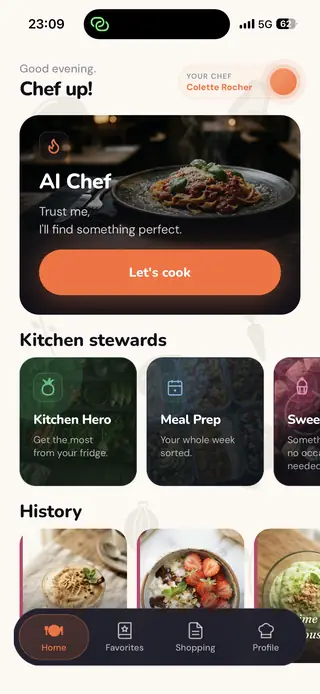
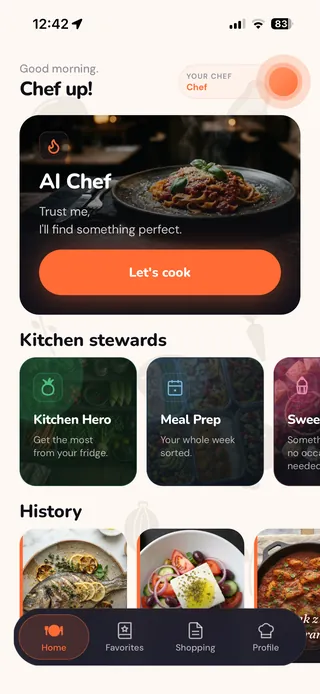
landing v2, paczka 2b (PL+EN): pomocnicy w ukladzie z makiety — Szef na cala szerokosc, pod nim tasma czterech pomocnikow
- sekcja modes -> .crew (kotwica #modes zostaje): karta AI Chefa z Mam smaka i Spontanem, potem Kitchen Hero, Air Fryer,
  Lasuch i Meal Prep (Premium, z linkiem do opowiesci Meal Prep); kazdy z ekranem aplikacji w przycietym oknie
- zdania, nazwy i zrzuty z dotychczasowej sekcji; nowe sa tylko etykiety przy telefonach (slowa z opisow)
  i podpowiedz przesuwania na telefonie
- ekran glowny: nowe zrzuty PO z 04.10 (neutralna nazwa Chefa), PL i EN
- story.css: style kart (na telefonie przesuwana tasma, od 720 px karty poziome, od 1080 px dwie kolumny)
- narzedzie migracji: snackmeup-marketing docs/landing/makieta_v2/buduj_pomocnikow.py

diff --git a/index.html b/index.html
@@ -212,74 +212,37 @@
   <div class="track" aria-hidden="true"><i></i><i></i><i></i><i></i><i></i><i></i><i></i><i></i><i></i><i></i></div>
 </section>
 
-<section class="modes band" id="modes">
-  <div class="wrap">
-    <div class="modes-head rise">
-      <p class="eyebrow">Kuchenni pomocnicy</p>
-      <h2>Na każdą sytuację w kuchni mam osobnego pomocnika.</h2>
-    </div>
-    <div class="mode-grid">
-      <article class="mode mode--chef rise" style="--i:0">
-        <div class="mode-photo"><img class="mode-plate" src="/assets/food/04-384.webp" srcset="/assets/food/04-384.webp 384w, /assets/food/04.webp 768w" sizes="(min-width: 900px) 55vw, 100vw" width="768" height="768" loading="lazy" alt="" aria-hidden="true"></div>
-        <div class="mode-body">
-          <p class="mode-tag"><span class="dot"></span>AI Chef</p>
-          <h3>Zdaj się na mnie, znajdę coś idealnego.</h3>
-          <p class="more">Kiedy nie masz pomysłu ani siły, żeby go szukać. Jedno dotknięcie i dostajesz danie dobrane do Twojego profilu.</p>
-          <div class="chef-tiles">
-            <div class="chef-tile rise" style="--i:0">
-              <span class="ico sm"><svg viewBox="0 0 24 24" fill="none" stroke="currentColor" stroke-width="1.75" stroke-linecap="round" stroke-linejoin="round" aria-hidden="true"><path d="M4 6h16v9H10.5L6.5 18.5V15H4V6Z"/></svg></span>
-              <p class="chef-tile-name">Mam smaka</p>
-              <p class="chef-tile-desc">Gdy wiesz, na co masz ochotę. Wpisujesz albo dyktujesz zachciankę, a ja zamieniam ją w przepis.</p>
-            </div>
-            <div class="chef-tile rise" style="--i:1">
-              <span class="ico sm"><svg viewBox="0 0 24 24" fill="none" stroke="currentColor" stroke-width="1.75" stroke-linecap="round" stroke-linejoin="round" aria-hidden="true"><rect x="4" y="4" width="16" height="16" rx="3.2"/><circle cx="8.6" cy="8.6" r="1.1"/><circle cx="15.4" cy="8.6" r="1.1"/><circle cx="8.6" cy="15.4" r="1.1"/><circle cx="15.4" cy="15.4" r="1.1"/><circle cx="12" cy="12" r="1.1"/></svg></span>
-              <p class="chef-tile-name">Spontan</p>
-              <p class="chef-tile-desc">Gdy masz ochotę na niespodziankę. Losuję kuchnię, budżet i poziom trudności inne niż w Twoim profilu. Alergie i region zakupów zostają bez zmian.</p>
-            </div>
-          </div>
-        </div>
+<section class="crew" id="modes">
+  <div class="crew-head rise">
+    <p class="eyebrow">Kuchenni pomocnicy</p>
+    <h2>Na każdą sytuację w kuchni mam osobnego pomocnika.</h2>
+  </div>
+  <div class="mates">
+      <article class="mate mate--chef" style="--mc: var(--o)">
+        <div class="mate-copy"><p class="who">AI Chef</p><h3>Zdaj się na mnie, znajdę coś idealnego.</h3><p>Kiedy nie masz pomysłu ani siły, żeby go szukać. Jedno dotknięcie i dostajesz danie dobrane do Twojego profilu.</p><ul class="subs"><li><b>Mam smaka</b>Gdy wiesz, na co masz ochotę. Wpisujesz albo dyktujesz zachciankę, a ja zamieniam ją w przepis.</li><li><b>Spontan</b>Gdy masz ochotę na niespodziankę. Losuję kuchnię, budżet i poziom trudności inne niż w Twoim profilu. Alergie i region zakupów zostają bez zmian.</li></ul></div>
+        <div class="win"><div class="dev"><div class="scr"><img src="/assets/screens/01-home-pl-320.webp" srcset="/assets/screens/01-home-pl-320.webp 320w, /assets/screens/01-home-pl-480.webp 480w" sizes="172px" width="360" height="780" loading="lazy" decoding="async" alt="Ekran główny aplikacji: AI Chef i kuchenni pomocnicy"></div></div><ul class="bits" aria-hidden="true"><li class="chip" style="--i:0">Szybka szama</li><li class="chip" style="--i:1">Mam smaka</li><li class="chip" style="--i:2">Spontan</li></ul></div>
       </article>
-      <article class="mode mode--hero rise" style="--i:1">
-        <div class="mode-copy">
-          <p class="mode-tag"><span class="dot"></span>Kitchen Hero</p>
-          <h3>Wyciśnij maksa z lodówki.</h3>
-          <p class="more">Kiedy lodówka jest pełna, a pomysłu brak. Wpisz, podyktuj albo sfotografuj to, co masz, a ułożę z tego przepis. Jeśli czegoś zabraknie, dopiszę najwyżej dwa drobiazgi do kupienia.</p>
-        </div>
-        <div class="mode-preview">
-          <div class="phone"><img src="/assets/screens/04-kitchenhero-pl-320.webp" srcset="/assets/screens/04-kitchenhero-pl-320.webp 320w, /assets/screens/04-kitchenhero-pl-480.webp 480w" sizes="(min-width: 900px) 200px, min(60vw, 220px)" width="320" height="694" loading="lazy" alt="Ekran trybu Kitchen Hero: pole na składniki z przyciskiem aparatu i mikrofonu"></div>
-        </div>
+    <div class="rail">
+      <article class="mate" style="--mc: var(--m-hero)">
+        <div class="mate-copy"><p class="who">Kitchen Hero</p><h3>Wyciśnij maksa z lodówki.</h3><p>Kiedy lodówka jest pełna, a pomysłu brak. Wpisz, podyktuj albo sfotografuj to, co masz, a ułożę z tego przepis. Jeśli czegoś zabraknie, dopiszę najwyżej dwa drobiazgi do kupienia.</p></div>
+        <div class="win"><div class="dev"><div class="scr"><img src="/assets/screens/04-kitchenhero-pl-320.webp" srcset="/assets/screens/04-kitchenhero-pl-320.webp 320w, /assets/screens/04-kitchenhero-pl-480.webp 480w" sizes="172px" width="360" height="780" loading="lazy" decoding="async" alt="Ekran trybu Kitchen Hero: pole na składniki z przyciskiem aparatu i mikrofonu"></div></div><ul class="bits" aria-hidden="true"><li class="chip" style="--i:0">wpisz</li><li class="chip" style="--i:1">podyktuj</li><li class="chip" style="--i:2">sfotografuj</li></ul></div>
       </article>
-      <article class="mode mode--sweet rise" style="--i:2">
-        <div class="mode-copy">
-          <p class="mode-tag"><span class="dot"></span>Łasuch</p>
-          <h3>Coś słodkiego na drugi żołądek.</h3>
-          <p class="more">Kiedy po obiedzie chodzi za Tobą coś słodkiego. Mus czekoladowy, ciasto w kubku albo coś lżejszego z owocami, także z tego, co masz pod ręką.</p>
-        </div>
-        <div class="mode-preview">
-          <div class="phone"><img src="/assets/screens/09-sweettooth-pl-320.webp" srcset="/assets/screens/09-sweettooth-pl-320.webp 320w, /assets/screens/09-sweettooth-pl-480.webp 480w" sizes="(min-width: 900px) 200px, min(60vw, 220px)" width="320" height="694" loading="lazy" alt="Ekran trybu Łasuch: pole na słodką zachciankę i gotowe inspiracje"></div>
-        </div>
+      <article class="mate" style="--mc: var(--m-fryer)">
+        <div class="mate-copy"><p class="who">Air Fryer</p><h3>Chrupiące, prosto z kosza.</h3><p>Kiedy air fryer stoi na blacie, a chcesz z niego wyciągnąć coś więcej niż frytki. Wybierzesz, co robimy: danie główne, dodatek, przekąskę albo deser. Podam temperaturę i czas, a jedzenie rozłożę na tyle partii, ile zmieści Twój kosz. Masz dwie komory? Rozpiszę je tak, żeby obie skończyły w tej samej minucie. A to, co zwykle pieczesz w piekarniku, przeliczę na air fryer.</p></div>
+        <div class="win"><div class="dev"><div class="scr"><img src="/assets/screens/16-airfryer-pl-320.webp" srcset="/assets/screens/16-airfryer-pl-320.webp 320w, /assets/screens/16-airfryer-pl-414.webp 414w" sizes="172px" width="360" height="780" loading="lazy" decoding="async" alt="Ekran trybu Air Fryer: pole na zachciankę, porcje dla domowników i wybór, co robimy"></div></div><ul class="bits" aria-hidden="true"><li class="chip" style="--i:0">temperatura</li><li class="chip" style="--i:1">czas</li><li class="chip" style="--i:2">partie</li></ul></div>
       </article>
-      <article class="mode mode--prep rise" style="--i:3">
-        <div class="mode-copy">
-          <p class="mode-tag"><span class="dot"></span>Meal Prep <span class="badge">Premium</span></p>
-          <h3>Cały tydzień zaplanowany raz-dwa.</h3>
-          <p class="more">Kiedy wolisz ugotować raz, a jeść przez kilka dni. Układam plan posiłków dla wszystkich domowników, z osobną listą zakupów na każdy dzień gotowania i rozpiską, co i kiedy ugotować. <a href="#prep">Zobacz, jak to działa</a></p>
-        </div>
-        <div class="mode-preview">
-          <div class="phone"><img src="/assets/screens/05-mealprep-pl-320.webp" srcset="/assets/screens/05-mealprep-pl-320.webp 320w, /assets/screens/05-mealprep-pl-480.webp 480w" sizes="(min-width: 900px) 200px, min(60vw, 220px)" width="320" height="694" loading="lazy" alt="Ekran Meal Prep: plan posiłków na kilka dni z listą zakupów"></div>
-        </div>
+      <article class="mate" style="--mc: var(--m-sweet)">
+        <div class="mate-copy"><p class="who">Łasuch</p><h3>Coś słodkiego na drugi żołądek.</h3><p>Kiedy po obiedzie chodzi za Tobą coś słodkiego. Mus czekoladowy, ciasto w kubku albo coś lżejszego z owocami, także z tego, co masz pod ręką.</p></div>
+        <div class="win"><div class="dev"><div class="scr"><img src="/assets/screens/09-sweettooth-pl-320.webp" srcset="/assets/screens/09-sweettooth-pl-320.webp 320w, /assets/screens/09-sweettooth-pl-480.webp 480w" sizes="172px" width="360" height="780" loading="lazy" decoding="async" alt="Ekran trybu Łasuch: pole na słodką zachciankę i gotowe inspiracje"></div></div><ul class="bits" aria-hidden="true"><li class="chip" style="--i:0">mus czekoladowy</li><li class="chip" style="--i:1">ciasto w kubku</li></ul></div>
       </article>
-      <article class="mode mode--fryer rise" style="--i:4">
-        <div class="mode-copy">
-          <p class="mode-tag"><span class="dot"></span>Air Fryer</p>
-          <h3>Chrupiące, prosto z kosza.</h3>
-          <p class="more">Kiedy air fryer stoi na blacie, a chcesz z niego wyciągnąć coś więcej niż frytki. Wybierzesz, co robimy: danie główne, dodatek, przekąskę albo deser. Podam temperaturę i czas, a jedzenie rozłożę na tyle partii, ile zmieści Twój kosz. Masz dwie komory? Rozpiszę je tak, żeby obie skończyły w tej samej minucie. A to, co zwykle pieczesz w piekarniku, przeliczę na air fryer.</p>
-        </div>
-        <div class="mode-preview">
-          <div class="phone"><img src="/assets/screens/16-airfryer-pl-320.webp" srcset="/assets/screens/16-airfryer-pl-320.webp 320w, /assets/screens/16-airfryer-pl-414.webp 414w" sizes="(min-width: 900px) 200px, min(60vw, 220px)" width="320" height="696" loading="lazy" alt="Ekran trybu Air Fryer: pole na zachciankę, porcje dla domowników i wybór, co robimy"></div>
-        </div>
+      <article class="mate" style="--mc: var(--m-prep)">
+        <div class="mate-copy"><p class="who">Meal Prep <b>Premium</b></p><h3>Cały tydzień zaplanowany raz-dwa.</h3><p>Kiedy wolisz ugotować raz, a jeść przez kilka dni. Układam plan posiłków dla wszystkich domowników, z osobną listą zakupów na każdy dzień gotowania i rozpiską, co i kiedy ugotować.</p><p class="mate-link"><a href="#prep">Zobacz, jak to działa ↓</a></p></div>
+        <div class="win"><div class="dev"><div class="scr"><img src="/assets/screens/05-mealprep-pl-320.webp" srcset="/assets/screens/05-mealprep-pl-320.webp 320w, /assets/screens/05-mealprep-pl-480.webp 480w" sizes="172px" width="360" height="780" loading="lazy" decoding="async" alt="Ekran Meal Prep: plan posiłków na kilka dni z listą zakupów"></div></div><ul class="bits" aria-hidden="true"><li class="chip" style="--i:0">plan na kilka dni</li><li class="chip" style="--i:1">lista na każdy dzień gotowania</li></ul></div>
       </article>
     </div>
+  </div>
+  <p class="swipe" aria-hidden="true">Przesuń palcem →</p>
+  <div class="crew-foot">
     <div class="stores">
       <a class="store-badge" href="https://play.google.com/store/apps/details?id=com.jarekpe.snackmeup"><img src="/assets/badges/google-play-pl.png" width="646" height="250" loading="lazy" alt="Pobierz z Google Play"></a>
       <a class="store-badge" href="https://apps.apple.com/pl/app/snack-me-up/id6760691383"><img src="/assets/badges/app-store-pl.svg" height="52" loading="lazy" alt="Pobierz w App Store"></a>

diff --git a/en/index.html b/en/index.html
@@ -212,74 +212,37 @@
   <div class="track" aria-hidden="true"><i></i><i></i><i></i><i></i><i></i><i></i><i></i><i></i><i></i><i></i></div>
 </section>
 
-<section class="modes band" id="modes">
-  <div class="wrap">
-    <div class="modes-head rise">
-      <p class="eyebrow">Kitchen stewards</p>
-      <h2>A helper for every kitchen situation.</h2>
-    </div>
-    <div class="mode-grid">
-      <article class="mode mode--chef rise" style="--i:0">
-        <div class="mode-photo"><img class="mode-plate" src="/assets/food/04-384.webp" srcset="/assets/food/04-384.webp 384w, /assets/food/04.webp 768w" sizes="(min-width: 900px) 55vw, 100vw" width="768" height="768" loading="lazy" alt="" aria-hidden="true"></div>
-        <div class="mode-body">
-          <p class="mode-tag"><span class="dot"></span>AI Chef</p>
-          <h3>Trust me, I'll find something perfect.</h3>
-          <p class="more">For when you have no idea and no energy to look for one. One tap and you get a dish matched to your profile.</p>
-          <div class="chef-tiles">
-            <div class="chef-tile rise" style="--i:0">
-              <span class="ico sm"><svg viewBox="0 0 24 24" fill="none" stroke="currentColor" stroke-width="1.75" stroke-linecap="round" stroke-linejoin="round" aria-hidden="true"><path d="M4 6h16v9H10.5L6.5 18.5V15H4V6Z"/></svg></span>
-              <p class="chef-tile-name">Cravings</p>
-              <p class="chef-tile-desc">For when you know what you feel like. Type it or say it, and I turn it into a recipe.</p>
-            </div>
-            <div class="chef-tile rise" style="--i:1">
-              <span class="ico sm"><svg viewBox="0 0 24 24" fill="none" stroke="currentColor" stroke-width="1.75" stroke-linecap="round" stroke-linejoin="round" aria-hidden="true"><rect x="4" y="4" width="16" height="16" rx="3.2"/><circle cx="8.6" cy="8.6" r="1.1"/><circle cx="15.4" cy="8.6" r="1.1"/><circle cx="8.6" cy="15.4" r="1.1"/><circle cx="15.4" cy="15.4" r="1.1"/><circle cx="12" cy="12" r="1.1"/></svg></span>
-              <p class="chef-tile-name">Random</p>
-              <p class="chef-tile-desc">For when you'd rather be surprised. I pick a cuisine, budget and difficulty different from your profile. Your allergies and shopping region stay as they are.</p>
-            </div>
-          </div>
-        </div>
+<section class="crew" id="modes">
+  <div class="crew-head rise">
+    <p class="eyebrow">Kitchen stewards</p>
+    <h2>A helper for every kitchen situation.</h2>
+  </div>
+  <div class="mates">
+      <article class="mate mate--chef" style="--mc: var(--o)">
+        <div class="mate-copy"><p class="who">AI Chef</p><h3>Trust me, I'll find something perfect.</h3><p>For when you have no idea and no energy to look for one. One tap and you get a dish matched to your profile.</p><ul class="subs"><li><b>Cravings</b>For when you know what you feel like. Type it or say it, and I turn it into a recipe.</li><li><b>Random</b>For when you'd rather be surprised. I pick a cuisine, budget and difficulty different from your profile. Your allergies and shopping region stay as they are.</li></ul></div>
+        <div class="win"><div class="dev"><div class="scr"><img src="/assets/screens/01-home-en-320.webp" srcset="/assets/screens/01-home-en-320.webp 320w, /assets/screens/01-home-en-480.webp 480w" sizes="172px" width="360" height="780" loading="lazy" decoding="async" alt="The app's home screen: AI Chef and the kitchen stewards"></div></div><ul class="bits" aria-hidden="true"><li class="chip" style="--i:0">Fast Track</li><li class="chip" style="--i:1">Cravings</li><li class="chip" style="--i:2">Random</li></ul></div>
       </article>
-      <article class="mode mode--hero rise" style="--i:1">
-        <div class="mode-copy">
-          <p class="mode-tag"><span class="dot"></span>Kitchen Hero</p>
-          <h3>Get the most from your fridge.</h3>
-          <p class="more">For when the fridge is full and ideas are not. Type, say or photograph what you have and I'll build a recipe from it. If something's missing, I'll add two small things to buy at most.</p>
-        </div>
-        <div class="mode-preview">
-          <div class="phone"><img src="/assets/screens/04-kitchenhero-en-320.webp" srcset="/assets/screens/04-kitchenhero-en-320.webp 320w, /assets/screens/04-kitchenhero-en-480.webp 480w" sizes="(min-width: 900px) 200px, min(60vw, 220px)" width="320" height="694" loading="lazy" alt="Kitchen Hero screen: an ingredients field with camera and microphone buttons"></div>
-        </div>
+    <div class="rail">
+      <article class="mate" style="--mc: var(--m-hero)">
+        <div class="mate-copy"><p class="who">Kitchen Hero</p><h3>Get the most from your fridge.</h3><p>For when the fridge is full and ideas are not. Type, say or photograph what you have and I'll build a recipe from it. If something's missing, I'll add two small things to buy at most.</p></div>
+        <div class="win"><div class="dev"><div class="scr"><img src="/assets/screens/04-kitchenhero-en-320.webp" srcset="/assets/screens/04-kitchenhero-en-320.webp 320w, /assets/screens/04-kitchenhero-en-480.webp 480w" sizes="172px" width="360" height="780" loading="lazy" decoding="async" alt="Kitchen Hero screen: an ingredients field with camera and microphone buttons"></div></div><ul class="bits" aria-hidden="true"><li class="chip" style="--i:0">type</li><li class="chip" style="--i:1">say</li><li class="chip" style="--i:2">photograph</li></ul></div>
       </article>
-      <article class="mode mode--sweet rise" style="--i:2">
-        <div class="mode-copy">
-          <p class="mode-tag"><span class="dot"></span>Sweet Tooth</p>
-          <h3>There's always room for something sweet.</h3>
-          <p class="more">For when you fancy something sweet after dinner. A chocolate mousse, a mug cake or something lighter with fruit, also from what you already have at home.</p>
-        </div>
-        <div class="mode-preview">
-          <div class="phone"><img src="/assets/screens/09-sweettooth-en-320.webp" srcset="/assets/screens/09-sweettooth-en-320.webp 320w, /assets/screens/09-sweettooth-en-480.webp 480w" sizes="(min-width: 900px) 200px, min(60vw, 220px)" width="320" height="694" loading="lazy" alt="Sweet Tooth screen: a field for a sweet craving and ready-made inspirations"></div>
-        </div>
+      <article class="mate" style="--mc: var(--m-fryer)">
+        <div class="mate-copy"><p class="who">Air Fryer</p><h3>Crispy, straight from the basket.</h3><p>For when the air fryer sits on the counter and you want more out of it than fries. Pick what we're making: a main, a side, a snack or dessert. I'll give you the temperature and basket time, and split the food into as many batches as your basket holds. Two baskets? I'll time them so both finish in the same minute. And tell me about a dish you usually bake in the oven, and I'll convert it for the air fryer.</p></div>
+        <div class="win"><div class="dev"><div class="scr"><img src="/assets/screens/16-airfryer-en-320.webp" srcset="/assets/screens/16-airfryer-en-320.webp 320w, /assets/screens/16-airfryer-en-414.webp 414w" sizes="172px" width="360" height="780" loading="lazy" decoding="async" alt="Air Fryer screen: a craving field, portions for the household and a choice of what we're making"></div></div><ul class="bits" aria-hidden="true"><li class="chip" style="--i:0">temperature</li><li class="chip" style="--i:1">time</li><li class="chip" style="--i:2">batches</li></ul></div>
       </article>
-      <article class="mode mode--prep rise" style="--i:3">
-        <div class="mode-copy">
-          <p class="mode-tag"><span class="dot"></span>Meal Prep <span class="badge">Premium</span></p>
-          <h3>Your whole week sorted.</h3>
-          <p class="more">For when you'd rather cook once and eat for several days. I put together a meal plan for everyone at home, with a separate shopping list for each cooking day and a schedule of what to cook when. <a href="#prep">See how it works</a></p>
-        </div>
-        <div class="mode-preview">
-          <div class="phone"><img src="/assets/screens/05-mealprep-en-320.webp" srcset="/assets/screens/05-mealprep-en-320.webp 320w, /assets/screens/05-mealprep-en-480.webp 480w" sizes="(min-width: 900px) 200px, min(60vw, 220px)" width="320" height="694" loading="lazy" alt="Meal Prep screen: a meal plan for several days with a shopping list"></div>
-        </div>
+      <article class="mate" style="--mc: var(--m-sweet)">
+        <div class="mate-copy"><p class="who">Sweet Tooth</p><h3>There's always room for something sweet.</h3><p>For when you fancy something sweet after dinner. A chocolate mousse, a mug cake or something lighter with fruit, also from what you already have at home.</p></div>
+        <div class="win"><div class="dev"><div class="scr"><img src="/assets/screens/09-sweettooth-en-320.webp" srcset="/assets/screens/09-sweettooth-en-320.webp 320w, /assets/screens/09-sweettooth-en-480.webp 480w" sizes="172px" width="360" height="780" loading="lazy" decoding="async" alt="Sweet Tooth screen: a field for a sweet craving and ready-made inspirations"></div></div><ul class="bits" aria-hidden="true"><li class="chip" style="--i:0">chocolate mousse</li><li class="chip" style="--i:1">mug cake</li></ul></div>
       </article>
-      <article class="mode mode--fryer rise" style="--i:4">
-        <div class="mode-copy">
-          <p class="mode-tag"><span class="dot"></span>Air Fryer</p>
-          <h3>Crispy, straight from the basket.</h3>
-          <p class="more">For when the air fryer sits on the counter and you want more out of it than fries. Pick what we're making: a main, a side, a snack or dessert. I'll give you the temperature and basket time, and split the food into as many batches as your basket holds. Two baskets? I'll time them so both finish in the same minute. And tell me about a dish you usually bake in the oven, and I'll convert it for the air fryer.</p>
-        </div>
-        <div class="mode-preview">
-          <div class="phone"><img src="/assets/screens/16-airfryer-en-320.webp" srcset="/assets/screens/16-airfryer-en-320.webp 320w, /assets/screens/16-airfryer-en-414.webp 414w" sizes="(min-width: 900px) 200px, min(60vw, 220px)" width="320" height="696" loading="lazy" alt="Air Fryer screen: a craving field, portions for the household and a choice of what we're making"></div>
-        </div>
+      <article class="mate" style="--mc: var(--m-prep)">
+        <div class="mate-copy"><p class="who">Meal Prep <b>Premium</b></p><h3>Your whole week sorted.</h3><p>For when you'd rather cook once and eat for several days. I put together a meal plan for everyone at home, with a separate shopping list for each cooking day and a schedule of what to cook when.</p><p class="mate-link"><a href="#prep">See how it works ↓</a></p></div>
+        <div class="win"><div class="dev"><div class="scr"><img src="/assets/screens/05-mealprep-en-320.webp" srcset="/assets/screens/05-mealprep-en-320.webp 320w, /assets/screens/05-mealprep-en-480.webp 480w" sizes="172px" width="360" height="780" loading="lazy" decoding="async" alt="Meal Prep screen: a meal plan for several days with a shopping list"></div></div><ul class="bits" aria-hidden="true"><li class="chip" style="--i:0">a plan for several days</li><li class="chip" style="--i:1">a list for each cooking day</li></ul></div>
       </article>
     </div>
+  </div>
+  <p class="swipe" aria-hidden="true">Swipe →</p>
+  <div class="crew-foot">
     <div class="stores">
       <a class="store-badge" href="https://play.google.com/store/apps/details?id=com.jarekpe.snackmeup"><img src="/assets/badges/google-play-en.png" width="646" height="250" loading="lazy" alt="Get it on Google Play"></a>
       <a class="store-badge" href="https://apps.apple.com/pl/app/snack-me-up/id6760691383"><img src="/assets/badges/app-store-en.svg" height="52" loading="lazy" alt="Download on the App Store"></a>

diff --git a/assets/story.css b/assets/story.css
@@ -224,3 +224,59 @@
 @media (min-width: 720px) {
   .story--prep .set li:nth-child(5) { display: block; left: calc(var(--off) + 2%); top: 72%; }
 }
+
+/* ---------- kuchenni pomocnicy: Szef jako karta na całą szerokość, pod nim taśma czterech pomocników (paczka 2b) ---------- */
+.crew { position: relative; z-index: 3; background: var(--ink); color: rgba(253,248,242,0.72); border-radius: 36px 36px 0 0; margin-top: -36px; padding: clamp(64px, 9vw, 112px) 0 calc(clamp(56px, 8vw, 96px) + 36px); }
+.crew-head { padding: 0 var(--pad) 22px; }
+.crew h2 { color: var(--parchment); max-width: 20ch; }
+.rail { display: flex; gap: 14px; overflow-x: auto; scroll-snap-type: x mandatory; padding: 4px var(--gut) 16px; scrollbar-width: none; }
+.rail::-webkit-scrollbar { display: none; }
+.mate { --pw: 172px; flex: none; width: 80vw; max-width: 330px; scroll-snap-align: center; display: flex; flex-direction: column; background: var(--ink-mid); border-radius: 28px; padding: 22px 20px 0; overflow: hidden; box-shadow: 0 0 0 1px color-mix(in srgb, var(--mc) 38%, transparent) inset; }
+.mate-copy { flex: 1; }
+.who { font-family: 'Nunito', sans-serif; font-weight: 800; font-size: 13px; letter-spacing: 0.1em; text-transform: uppercase; color: var(--mc); margin-bottom: 8px; }
+.who b { font-size: 11px; letter-spacing: 0.06em; padding: 2px 8px; border-radius: 100px; margin-left: 6px; color: var(--ink); background: var(--mc); }
+.mate h3 { font-size: 22px; line-height: 1.15; color: var(--parchment); margin-bottom: 8px; min-height: 2.3em; }
+.mate-copy > p { font-size: 14.5px; line-height: 1.5; }
+.mate-link { margin-top: 8px; font-family: 'Nunito', sans-serif; font-weight: 800; }
+.mate-link a { color: var(--mc); }
+.subs { margin-top: 10px; display: grid; gap: 8px; font-size: 13.5px; line-height: 1.45; }
+.subs b { display: block; font-family: 'Nunito', sans-serif; font-weight: 800; color: var(--parchment); }
+/* okno: każdy telefon stoi na dole karty i jest przycięty w tym samym miejscu */
+.win { position: relative; height: 250px; margin-top: 18px; display: flex; justify-content: center; align-items: flex-start; overflow: hidden; }
+.win .dev { flex: none; }
+.bits li { position: absolute; }
+.bits li:nth-child(1) { left: 0; top: 22px; }
+.bits li:nth-child(2) { right: 0; top: 78px; }
+.bits li:nth-child(3) { left: 0; top: 138px; }
+.mates > .mate { width: auto; max-width: none; margin: 0 var(--gut) 14px; }
+.rail .mate-copy { flex: none; }
+.rail .win { flex: 1 1 250px; min-height: 250px; height: auto; }
+.swipe { padding: 4px var(--gut) 0; font-size: 13px; color: rgba(253,248,242,0.5); }
+.crew-foot { padding: 22px var(--pad) 0; }
+.crew .stores-note { color: rgba(253,248,242,0.6); }
+.crew .stores-note a { color: rgba(253,248,242,0.85); }
+@keyframes lift { from { transform: translateY(46px) scale(0.92); } }
+@media (min-width: 720px) {
+  /* szeroko: karty poziome — tekst obok telefonu, więc długość opisu nie przesuwa ekranów */
+  .mates { display: grid; grid-template-columns: 1fr; gap: 14px; padding-inline: var(--pad); }
+  .mates > .mate { margin: 0; }
+  .rail { display: contents; }
+  .mate { width: auto; max-width: none; flex-direction: row; align-items: flex-end; gap: 24px; padding: 26px 26px 0; }
+  .rail .mate:nth-child(odd) { flex-direction: row-reverse; }
+  .mate-copy, .rail .mate-copy { flex: 1; align-self: center; padding-bottom: 26px; }
+  .mate h3 { min-height: 0; font-size: 26px; }
+  .mate-copy > p { font-size: 15.5px; }
+  .win, .rail .win { flex: 0 0 42%; height: 280px; min-height: 0; margin-top: 0; }
+  .swipe { display: none; }
+}
+@media (min-width: 1080px) {
+  .mates { grid-template-columns: 1fr 1fr; }
+  .mate--chef { grid-column: 1 / -1; }
+  .mate--chef .win { flex-basis: 30%; }
+}
+@media (prefers-reduced-motion: no-preference) {
+  @supports (animation-timeline: view()) {
+    .mate .dev { animation: lift linear both; animation-timeline: view(); animation-range: entry 0% cover 30%; }
+    .bits li { animation: pop linear both; animation-timeline: view(); animation-range: entry 30% cover 36%; }
+  }
+}
